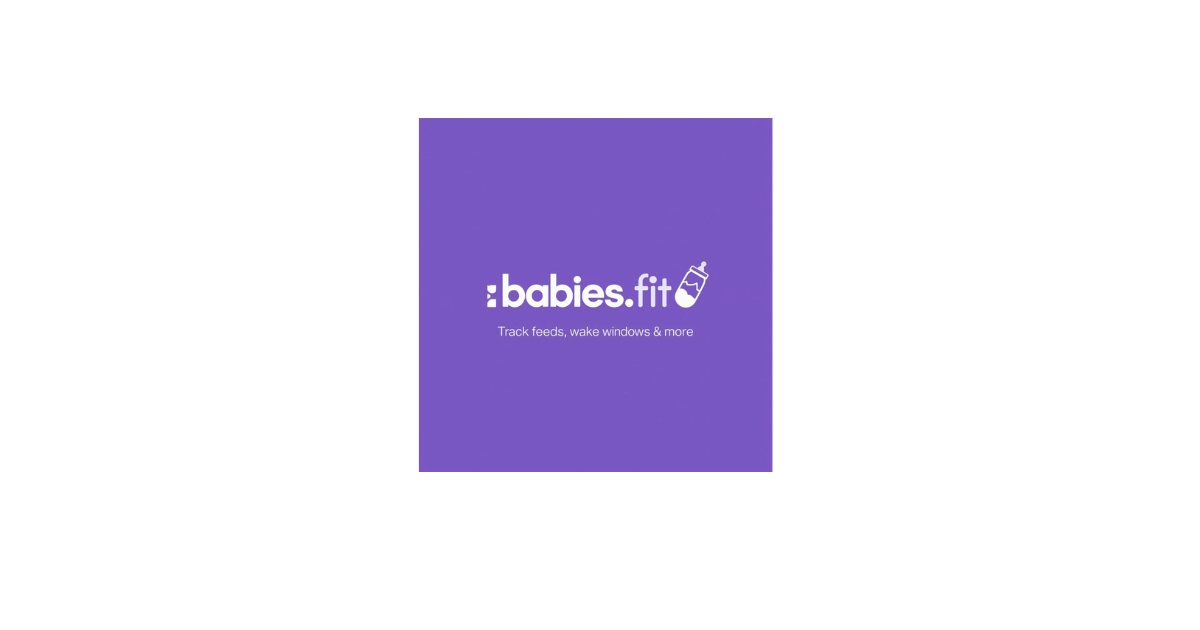
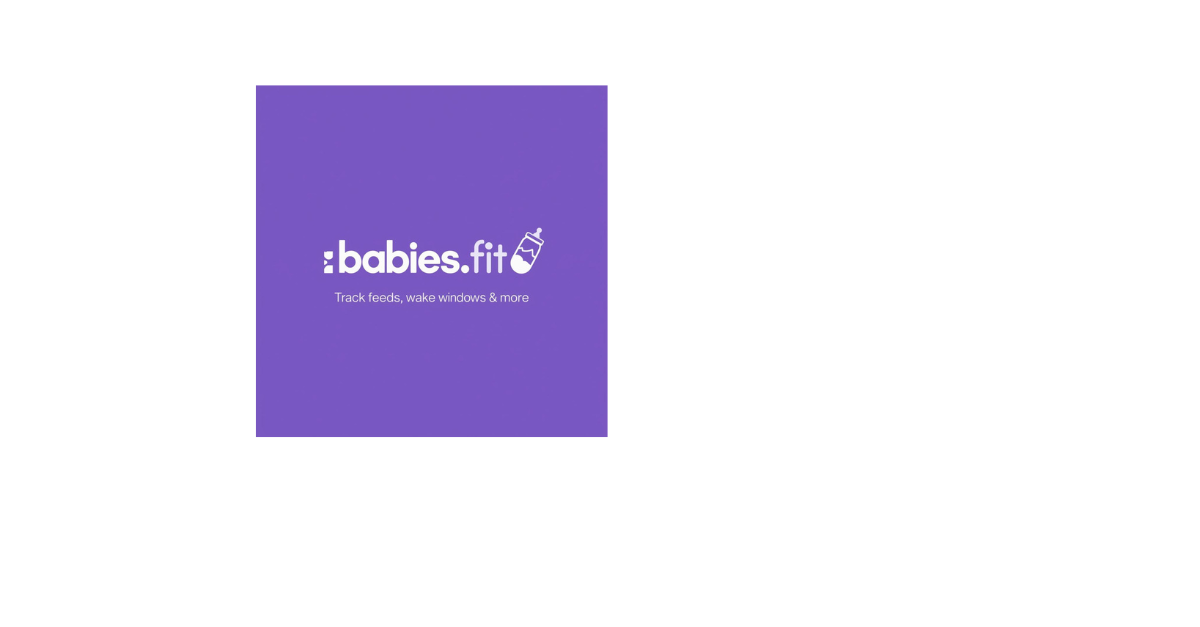
Replace OG image with new 1200x627 design

Changed region(s): [[0.2158, 0.1212, 0.6475, 0.7576]]

diff --git a/public/index.html b/public/index.html
@@ -17,7 +17,7 @@
     <meta property="og:description" content="Track. Feed. Thrive." />
     <meta property="og:image" content="https://babies.fit/og-image.png" />
     <meta property="og:image:width" content="1200" />
-    <meta property="og:image:height" content="630" />
+    <meta property="og:image:height" content="627" />
     <meta property="og:type" content="website" />
     <meta property="og:url" content="https://babies.fit" />
     <meta name="twitter:card" content="summary_large_image" />
